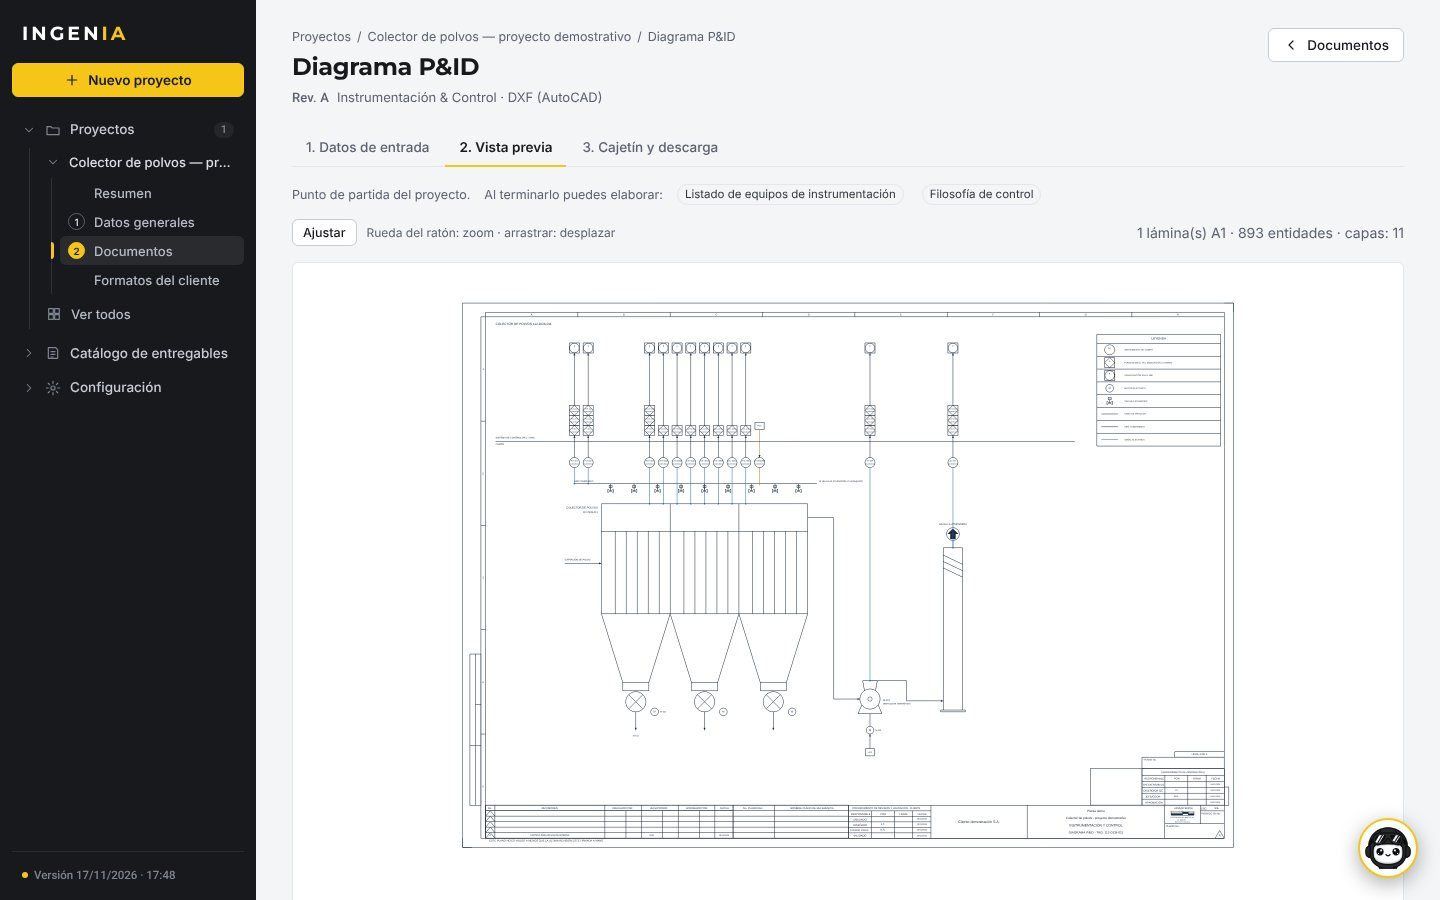
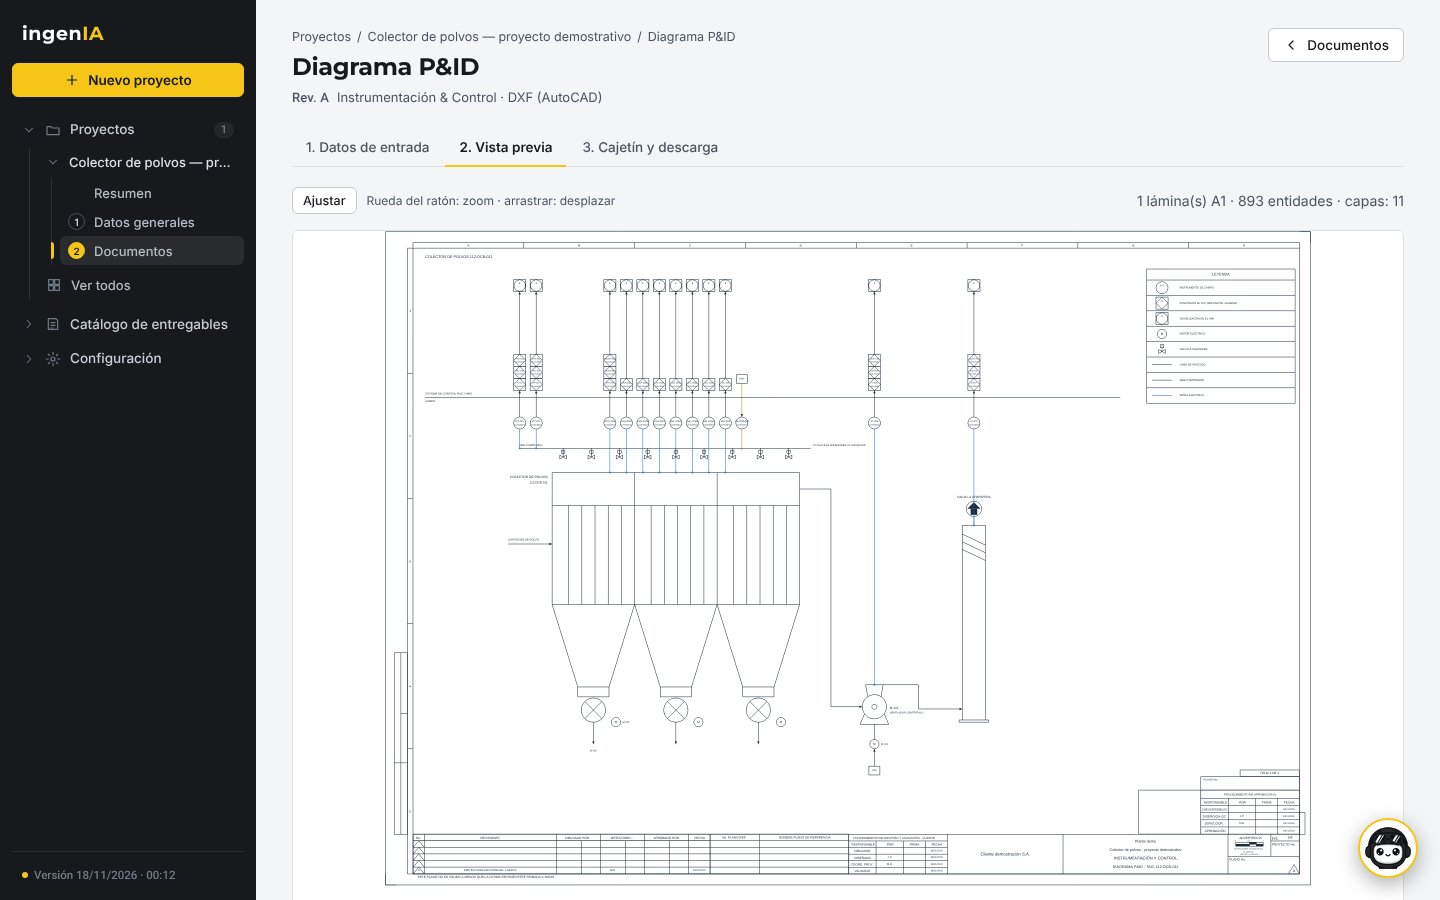
Página de inicio con PDF, textos de planes al día y vistas del carrusel regeneradas
- Inicio: formatos de salida con PDF; «Cómo funciona» y gestión documental sin emisión en lote; plan Empresa sin
  formatos del cliente (función que se agregará en otra etapa). Planes de la plataforma con los mismos textos.
- Capturas del carrusel con la interfaz actual; el proyecto demostrativo toma el estado de cada documento de su
  revisión vigente.
- README: página de inicio.

Claude-Session: https://claude.ai/code/session_01DVDnwkDtYN2bWqHdua9eYc

diff --git a/index.html b/index.html
@@ -44,6 +44,7 @@
       <li><span class="ext">XLSX</span>Excel</li>
       <li><span class="ext">DOCX</span>Word</li>
       <li><span class="ext">DXF</span>Planos para AutoCAD</li>
+      <li><span class="ext">PDF</span>Todos, también en PDF</li>
     </ul>
   </div>
 
@@ -75,9 +76,9 @@
           <img src="assets/vistas/02-cargas.jpg" alt="Vista previa del listado de cargas con la máxima demanda" width="1440" height="900" loading="lazy" decoding="async">
           <figcaption>Listado de cargas con máxima demanda (Excel)</figcaption>
         </figure>
-        <figure data-t="Ruta de trabajo y revisiones" data-d="Documentos por etapas, siguiente paso recomendado y emisión en lote">
+        <figure data-t="Ruta de trabajo y revisiones" data-d="Documentos por etapas, con lo que requiere cada uno y su estado según la revisión">
           <img src="assets/vistas/06-documentos.jpg" alt="Lista de documentos del proyecto ordenada por etapas, con revisiones emitidas" width="1440" height="900" loading="lazy" decoding="async">
-          <figcaption>Documentos por etapas y emisión de revisiones</figcaption>
+          <figcaption>Documentos por etapas y estado de cada revisión</figcaption>
         </figure>
         <figure data-t="Resumen del proyecto" data-d="Avance, datos generales y tableros de un vistazo">
           <img src="assets/vistas/01-resumen.jpg" alt="Resumen de un proyecto con su avance" width="1440" height="900" loading="lazy" decoding="async">
@@ -142,7 +143,7 @@
     <header class="ini-titulo rv">
       <p class="ini-eyebrow ini-eyebrow-claro">Entregables listos para emitir</p>
       <h2 id="formatos-t">Excel, Word y planos para AutoCAD</h2>
-      <p>Cada entregable se descarga en el formato estándar de Ingenia, con carátula o cajetín, logos y control de revisiones. Los archivos se abren y se editan en tus programas de siempre.</p>
+      <p>Cada entregable se descarga en el formato estándar de Ingenia, con carátula o cajetín, logos y control de revisiones. Los archivos se abren y se editan en tus programas de siempre, y cada uno también se descarga en <b>PDF</b> listo para enviar o imprimir.</p>
     </header>
     <div class="ini-salidas">
       <article class="ini-salida rv">
@@ -181,7 +182,7 @@
     <ol class="ini-pasos">
       <li class="ini-paso rv"><span class="ini-paso-n">01</span><h3>Define el proyecto</h3><p>Cliente, tensiones de fuerza y de control, condiciones del sitio y tableros, en un asistente de cuatro pasos.</p></li>
       <li class="ini-paso rv"><span class="ini-paso-n">02</span><h3>Completa cada documento</h3><p>Datos de entrada → vista previa → cajetín. Protecciones, cables, demanda y canales I/O se calculan solos, y la ruta de trabajo te indica qué sigue.</p></li>
-      <li class="ini-paso rv"><span class="ini-paso-n">03</span><h3>Emite y descarga</h3><p>Emite la revisión de todos los documentos a la vez y descárgalos en Excel, Word o DXF para AutoCAD.</p></li>
+      <li class="ini-paso rv"><span class="ini-paso-n">03</span><h3>Emite y descarga</h3><p>Emite la revisión de cada documento y descárgalo en Excel, Word o DXF para AutoCAD, o en PDF.</p></li>
     </ol>
   </div>
 </section>
@@ -273,7 +274,7 @@
     </div>
     <div class="ini-gestion rv">
       <span class="ini-disc-ic" aria-hidden="true"><svg class="ini-ic" viewBox="0 0 24 24"><path d="M4 6h16M4 12h16M4 18h10"/></svg></span>
-      <div><h3>Gestión documental incluida</h3><p>Ruta de trabajo por etapas con el siguiente paso recomendado, control de revisiones, emisión en lote y lista de documentos del proyecto.</p></div>
+      <div><h3>Gestión documental incluida</h3><p>Ruta de trabajo por etapas con lo que requiere cada documento, control de revisiones con el estado de cada entregable y lista de documentos del proyecto.</p></div>
     </div>
   </div>
 </section>
@@ -309,7 +310,7 @@
       <article class="ini-plan rv">
         <h3>Empresa</h3>
         <div class="ini-precio"><b>A medida</b></div>
-        <ul><li>Usuarios ilimitados</li><li>Formatos, capas y cajetín del cliente configurados</li><li>Capacitación y soporte prioritario</li><li>Factura</li></ul>
+        <ul><li>Usuarios ilimitados</li><li>Logo y firmas de la organización en todos los entregables</li><li>Capacitación y soporte prioritario</li><li>Factura</li></ul>
       </article>
     </div>
     <p class="ini-planes-nota">El acceso y el pago se harán con tu cuenta de Google desde «Entrar». Los precios no incluyen impuestos.</p>

diff --git a/js/plan.js b/js/plan.js
@@ -8,9 +8,9 @@ import { DOCS } from "./docs.js";
 const DIAS_PRUEBA = 14;
 export const PLANES = [
   { id:"prueba", nombre:"Prueba", precio:"Gratis", periodo:`${DIAS_PRUEBA} días`, items:["1 proyecto","Todos los documentos y planos","Copito con tus datos","Sin tarjeta"] },
-  { id:"pro", nombre:"Profesional", precio:"US$ 29", periodo:"/ mes", destacado:true, items:["1 usuario","Proyectos ilimitados","Excel, Word y planos AutoCAD","Formatos y logo del cliente","Copito con tus datos"] },
+  { id:"pro", nombre:"Profesional", precio:"US$ 29", periodo:"/ mes", destacado:true, items:["1 usuario","Proyectos ilimitados","Excel, Word, planos DXF para AutoCAD y PDF","Logo del cliente","Copito con tus datos"] },
   { id:"equipo", nombre:"Equipo", precio:"US$ 79", periodo:"/ mes", items:["Hasta 3 usuarios","Proyectos compartidos","Todo lo del plan Profesional","Copito con IA"] },
-  { id:"empresa", nombre:"Empresa", precio:"A medida", periodo:"", items:["Usuarios ilimitados","Formatos, capas y cajetín del cliente","Capacitación y soporte prioritario","Factura"] },
+  { id:"empresa", nombre:"Empresa", precio:"A medida", periodo:"", items:["Usuarios ilimitados","Logo y firmas de la organización en todos los entregables","Capacitación y soporte prioritario","Factura"] },
 ];
 
 const hoyISO = () => new Date().toISOString().slice(0,10);

diff --git a/js/version.js b/js/version.js
@@ -1,3 +1,3 @@
 /* Versión publicada: fecha y hora (Perú, UTC−5) en que se cargó esta versión del programa.
    Se actualiza en cada publicación; se muestra al pie del menú lateral. */
-export const VERSION = "2026-11-18 00:12";
+export const VERSION = "2026-11-18 00:16";

diff --git a/README.md b/README.md
@@ -40,7 +40,9 @@ Plataforma web para elaborar ingenierías de **Electricidad e Instrumentación &
 - **Modo IA opcional** (desactivado por defecto; Copito no lo necesita para hacer cambios): se activa en los ajustes de Copito con una clave de API propia guardada solo en ese navegador; envía la pregunta y los datos de los proyectos a Anthropic. SDK oficial empaquetado en `vendor/anthropic-sdk-1.3.0.mjs` (se carga solo en modo IA). Para producción, la clave debe ir en un servidor intermedio, no en el navegador.
 
 ## Página de inicio
-Carrusel con vistas reales de un proyecto demostrativo (`assets/vistas/*.jpg`, datos ficticios), planes de membresía y pie con copyright.
+`index.html` + `css/inicio.css` (clases `ini-`): hero oscuro con los formatos de salida (Excel, Word, DXF para AutoCAD y PDF) y la plataforma en una ventana con carrusel; cifras del producto (entregables, formatos, disciplinas, familias de PLC y marcas, recontadas desde `js/catalog.js`, `js/control/plc-modulos.js` y `js/engine/marcas.js` al cargar); salidas por formato; cómo funciona; **Copito** como asesor en tiempo real; entregables por disciplina; planes y llamado final.
+- Las vistas del carrusel (`assets/vistas/*.jpg`, 1440 × 900, proyecto demostrativo con datos ficticios) se generan con `node tools/vistas/capturas.cjs`: unifilar, multifilar de control y P&ID son capturas de la **vista previa dentro de la plataforma**. Volver a correrlo cuando cambie la interfaz.
+- Hay una franja comentada para métricas de uso (usuarios, países, proyectos): se activa solo con cifras reales y su fecha de corte.
 
 ## Formatos estándar
 Formatos propios de Ingenia (carátula, tabla de revisiones, estilos y fórmulas), sin datos de ningún cliente:
